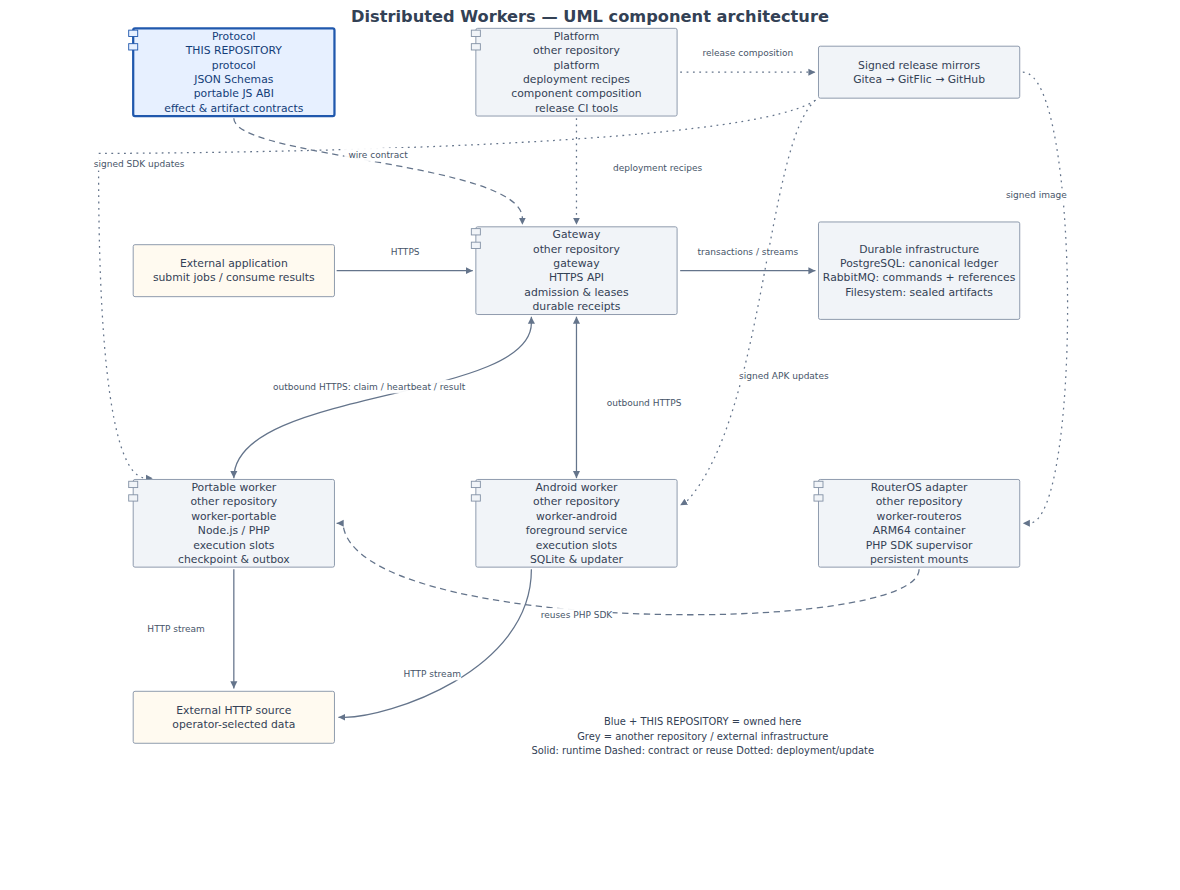
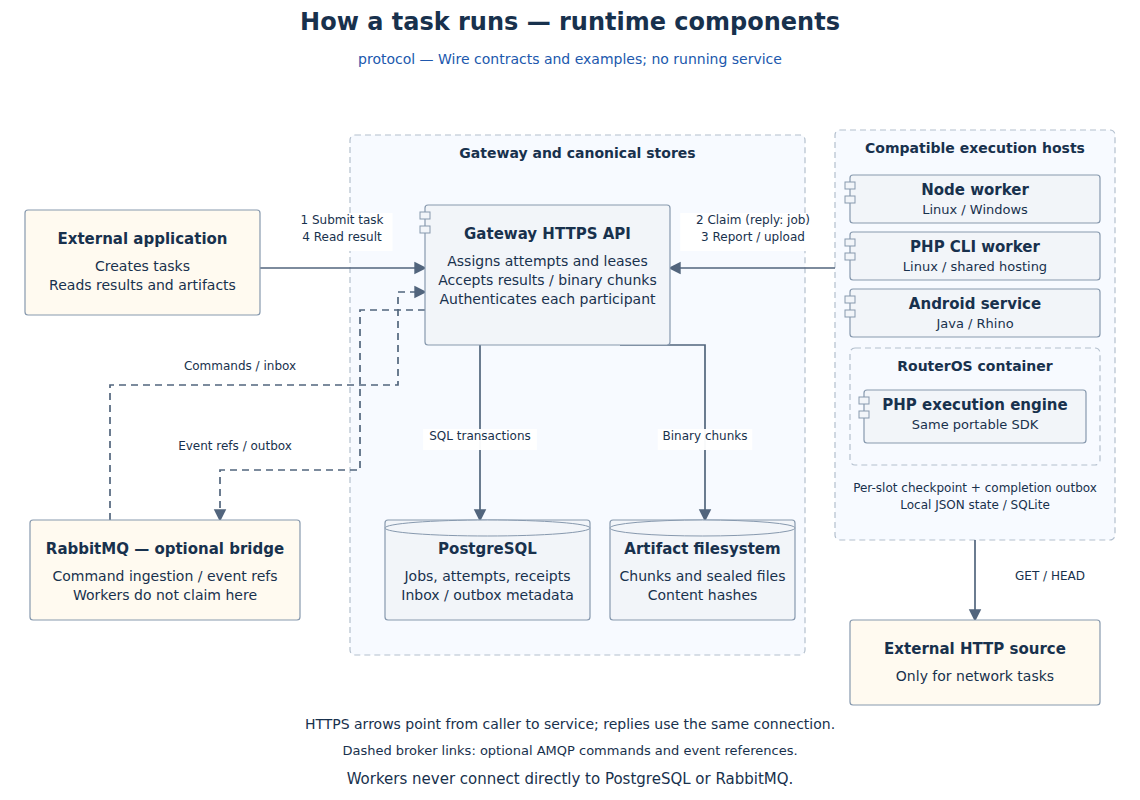
Separate runtime task flow from UML repository dependencies
Show HTTPS pull, PostgreSQL scheduling, optional AMQP and binary storage separately from source/release dependencies. Represent RouterOS as a container with a local PHP engine, identify non-runtime packages, and validate routes and ownership.

diff --git a/README.md b/README.md
@@ -3,17 +3,30 @@
 Portable job, completion, durable effect journal and streaming artifact formats.
 
 <!-- fleet-architecture:start -->
-## Architecture and repository boundary
+## Architecture
 
-![Shared UML component architecture; protocol is highlighted](docs/architecture.png)
+### How a task runs
 
-All six repositories show the same system. **Blue and “THIS REPOSITORY” identify the component owned here**; grey boxes show sibling repositories or external infrastructure. Solid arrows carry runtime traffic, dashed arrows show contracts or reuse, and dotted arrows show deployment or updates. The protocol applies to the gateway and both execution SDKs; deployment arrows show the principal composition entry points.
+![Runtime task flow, API callers and durable stores](docs/architecture.png)
+
+1. An external application submits a task to the gateway API.
+2. A compatible worker claims it; the API assigns a fenced attempt in PostgreSQL and returns the task. The worker renews its lease while running.
+3. The worker uploads binary output and submits its result. Gateway acknowledgements confirm persisted state.
+4. The application reads the canonical result and downloads referenced artifacts.
+
+Workers initiate HTTPS connections. PostgreSQL schedules claims and stores canonical execution state. RabbitMQ is an optional command/event bridge; workers do not pull their tasks from it. The four adapter boxes show implementation types, not a machine count.
+
+### Where this repository fits
+
+![UML package dependencies; this repository is blue](docs/repositories.png)
+
+The **blue package labelled THIS REPOSITORY** is owned here. Dashed arrows point from a package to the contract, SDK or release bundle it uses; they do not represent network calls. `protocol` and `platform` are source/tooling packages, not running services. RouterOS packages the PHP SDK inside its own container rather than calling a separate PHP service.
 
 This repository owns the wire schemas, portable JavaScript ABI, task/receipt examples and conformance/measurement tools. It is a contract and tooling package, not a queue server or another execution worker.
 
 Implementation: [wire contract](PROTOCOL.md), [JSON Schemas](schemas/), [jobs](examples/), [example runner](tools/run-examples.py).
 
-[SVG source](docs/architecture.svg) · [Editable DOT source](docs/architecture.dot). The common model and Python-only SVG renderer live in [platform](https://gitflic.ru/project/distributed-workers/platform). From its checkout, `python3 -B tools/render-architecture.py --workspace ../.. --png` regenerates every ownership view in a workspace containing `repos/<component>`. PNG previews work on forges that serve SVG as text. SVG generation uses Python alone; PNG rendering uses a local Chromium browser. No diagram service or production configuration is needed.
+Editable sources: [runtime SVG](docs/architecture.svg), [runtime DOT](docs/architecture.dot), [repository SVG](docs/repositories.svg), [repository DOT](docs/repositories.dot). Both view families come from the shared model in [platform](https://gitflic.ru/project/distributed-workers/platform); each repository changes only the ownership highlight. PNG previews display on all three forges. Regenerate with `python3 -B tools/render-architecture.py --workspace ../.. --png` from the platform checkout. SVG needs Python alone; PNG needs local Chromium and Pillow.
 <!-- fleet-architecture:end -->
 
 - [Wire contract v1](PROTOCOL.md)
